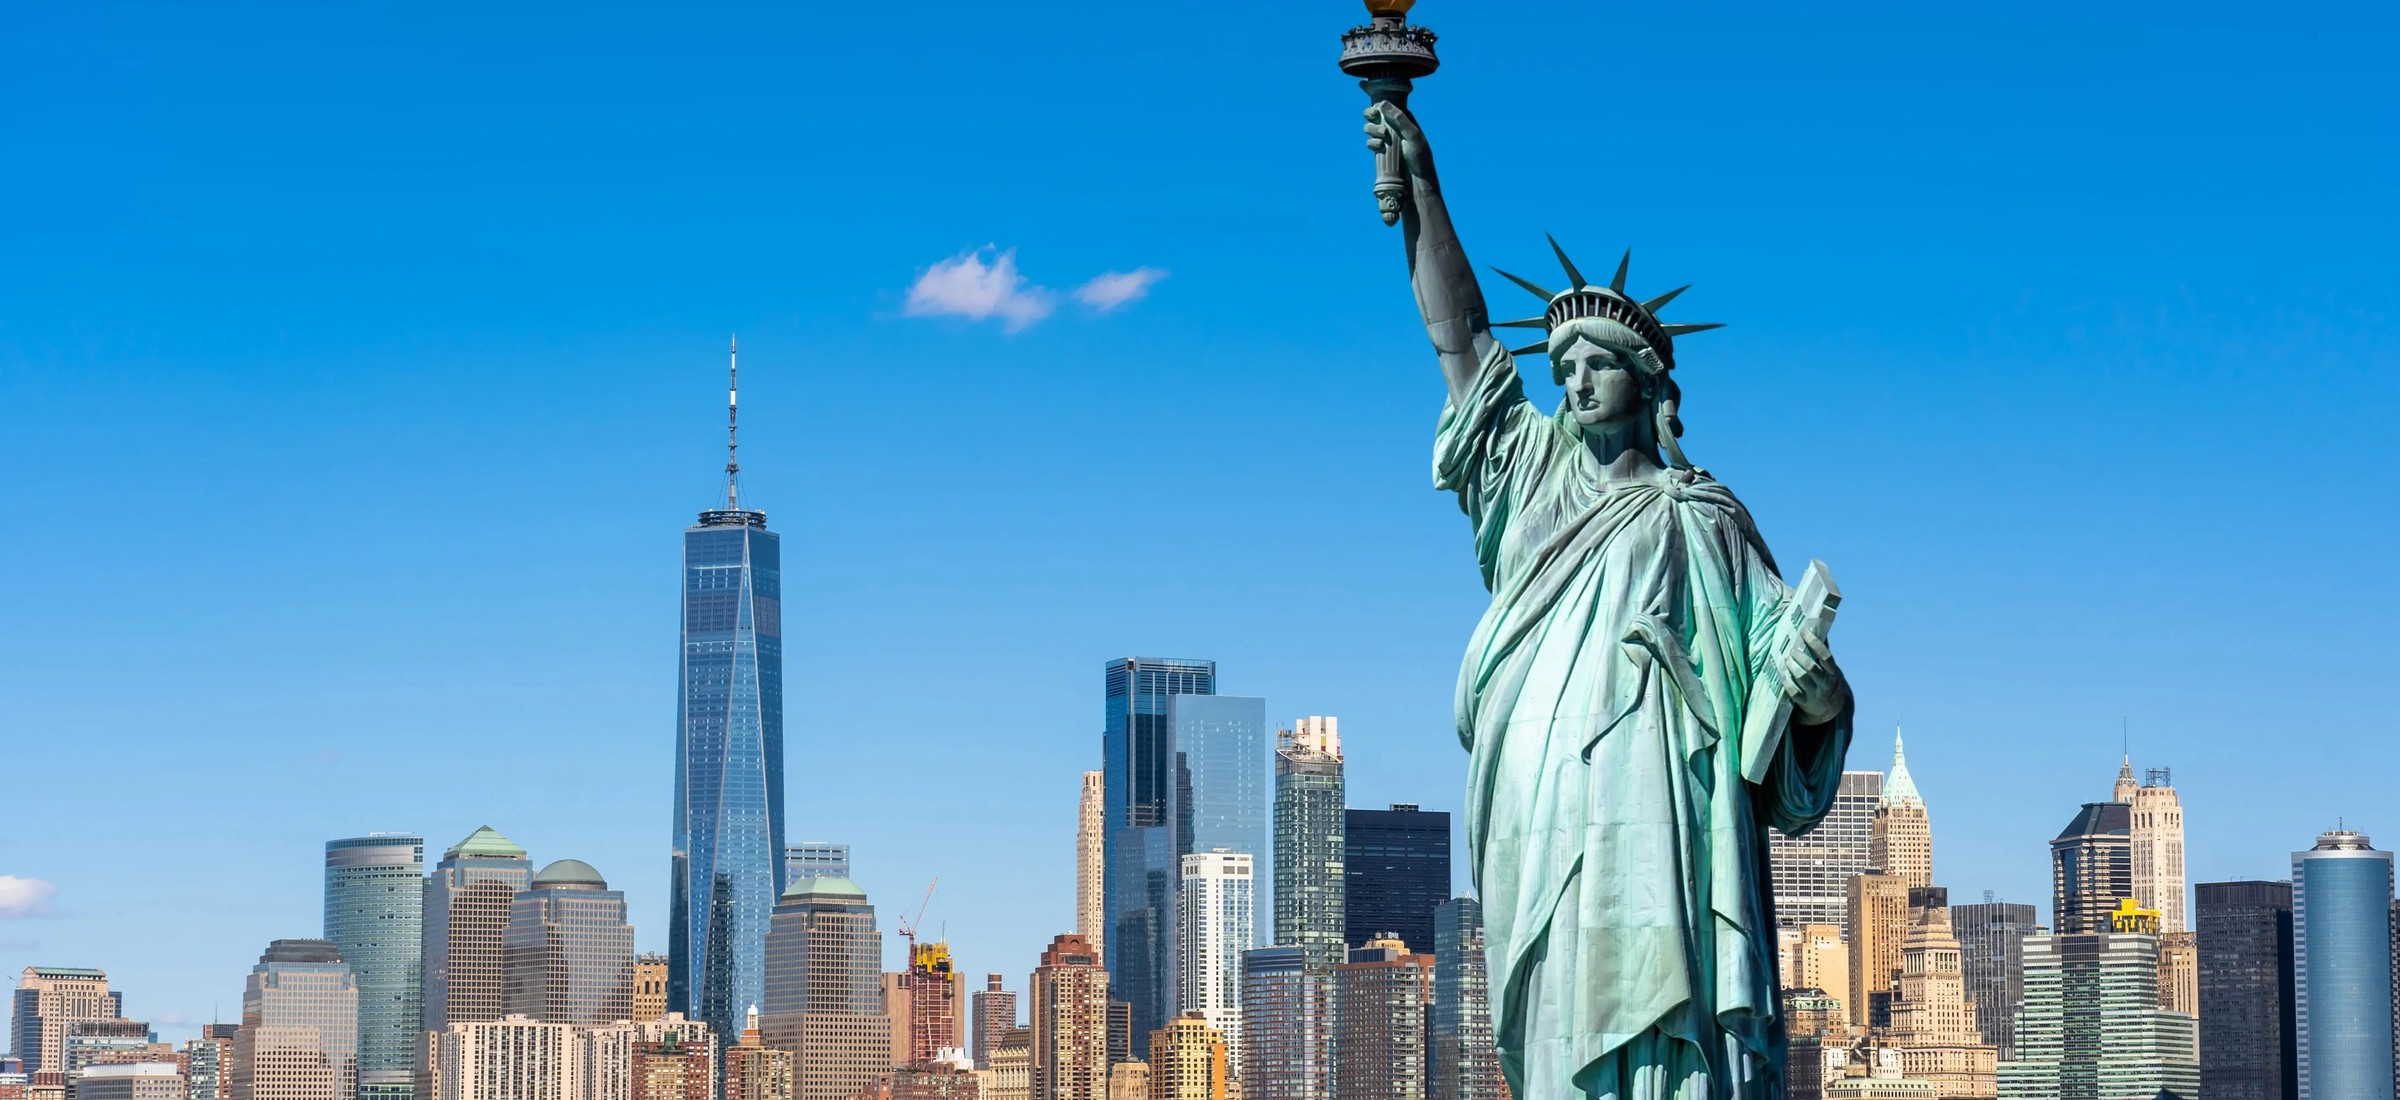
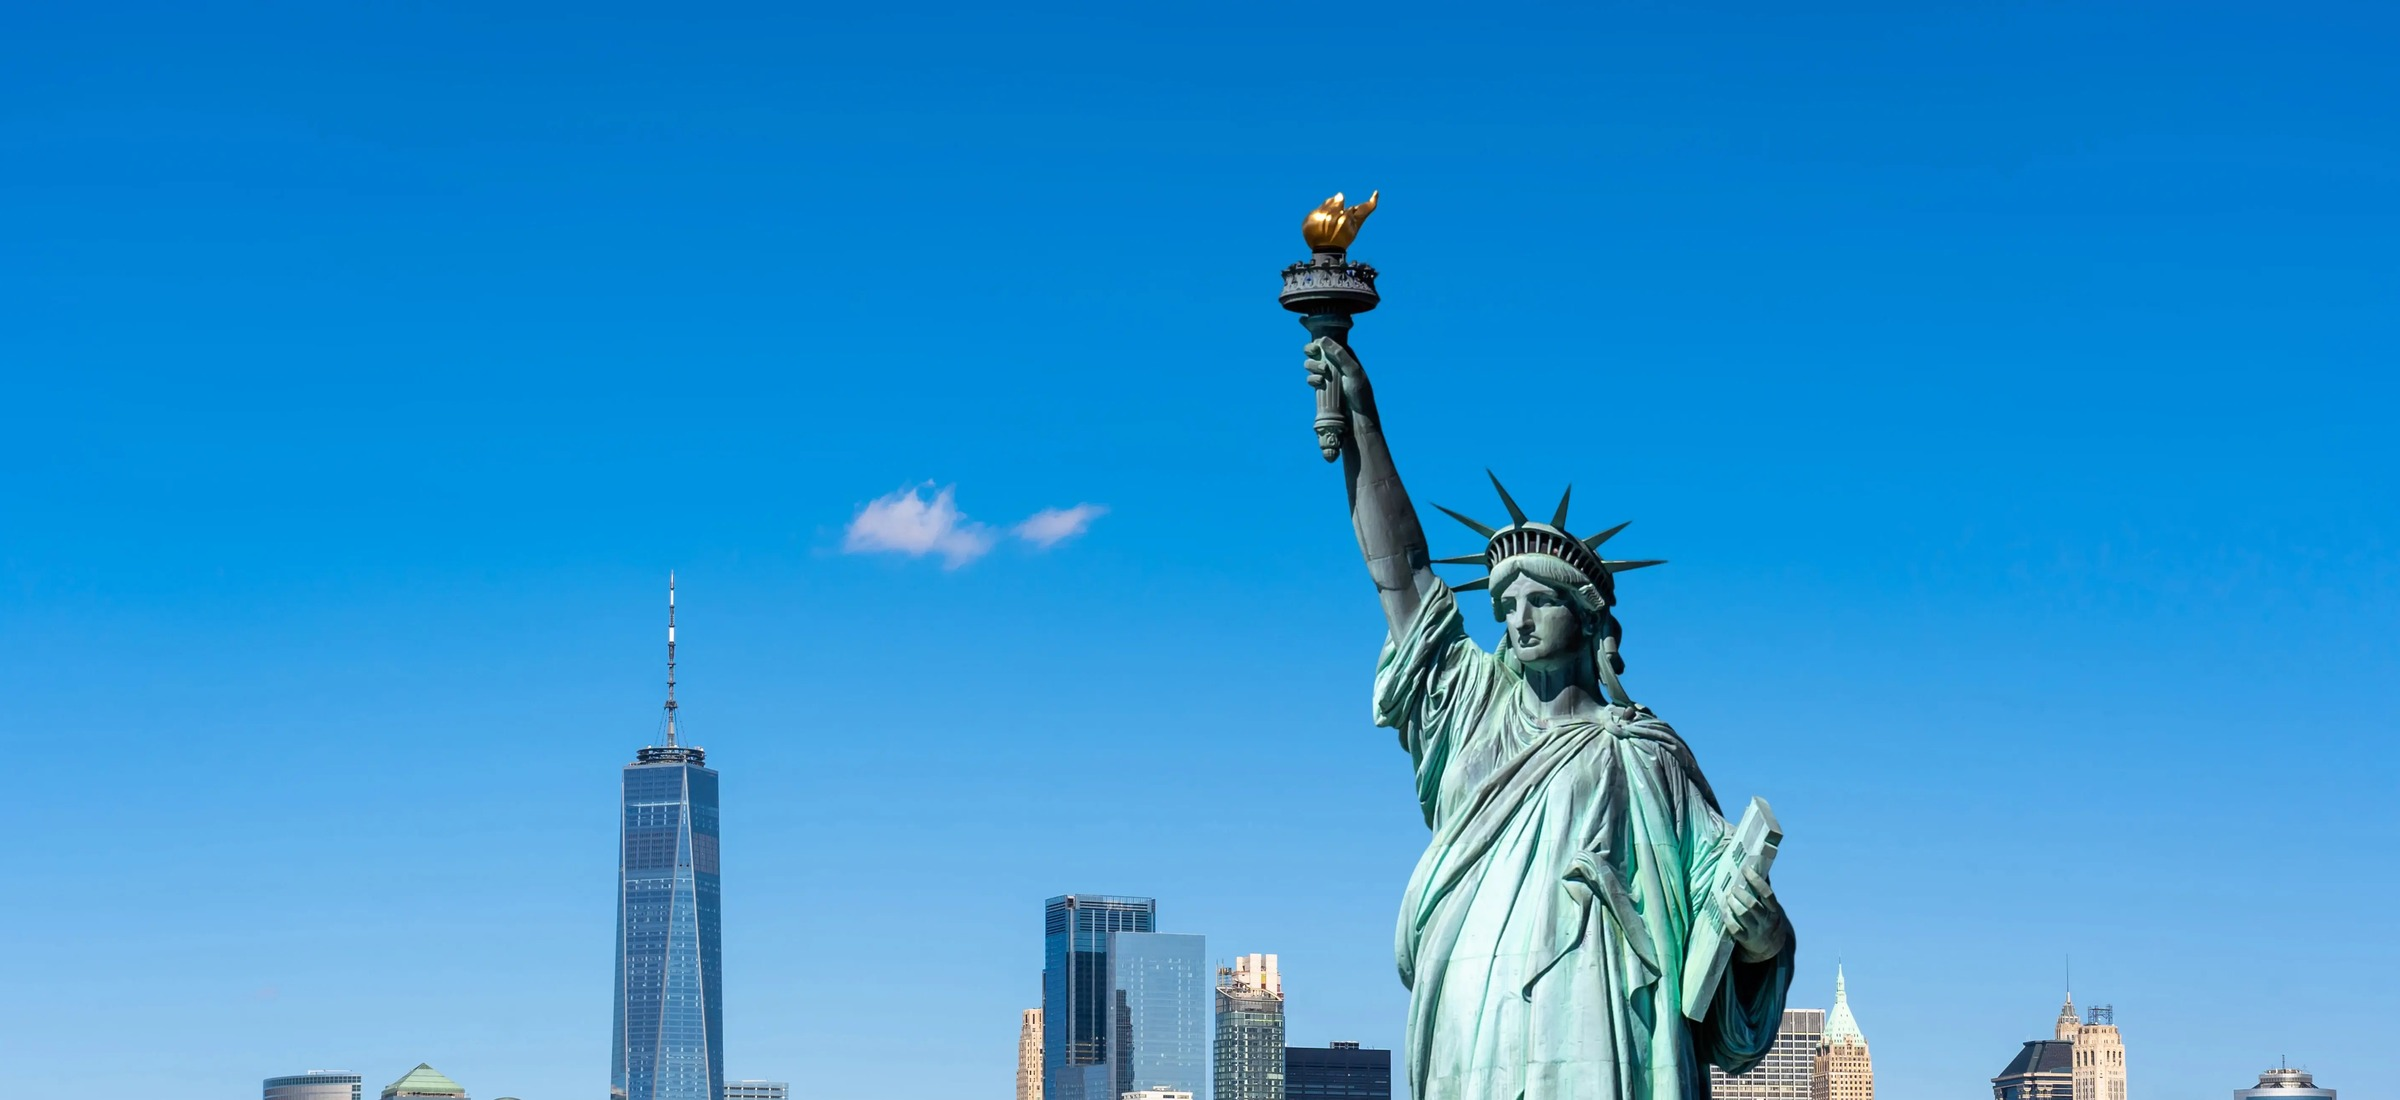
Pan NY Liberty hero so torch sits at top of cover crop
Rebake reframed Liberty stills with sky headroom and pin
background/object-position to left top on the NY state preview.

diff --git a/hubspot-state-city-preview/new-york.html b/hubspot-state-city-preview/new-york.html
@@ -234,7 +234,7 @@ _hsp.push(['addPrivacyConsentListener', function(consent){
   }
 </style>
   <meta name="generator" content="HubSpot">
-<!-- NY hero: keep Liberty clear of headline -->
+<!-- NY hero: Liberty left of headline + pan so torch tip stays in frame -->
 <style>
   .Hero-Section .Hero-Row {
     text-align: left !important;
@@ -250,6 +250,19 @@ _hsp.push(['addPrivacyConsentListener', function(consent){
   .Hero-Section .Hero-Inner {
     text-align: left;
   }
+  /* Pan down (anchor top): torch/sky enter top of cover crop — theme img uses height:100%/min-width without object-position */
+  .Hero-Section.fullwidth {
+    background-position: left top !important;
+    overflow: hidden;
+  }
+  .Hero-Section .heroSlide img {
+    width: 100% !important;
+    height: 100% !important;
+    max-width: none !important;
+    min-width: 0 !important;
+    object-fit: cover !important;
+    object-position: left top !important;
+  }
   @media (max-width: 767px) {
     .Hero-Section .Hero-Row {
       text-align: center !important;
@@ -258,6 +271,9 @@ _hsp.push(['addPrivacyConsentListener', function(consent){
       padding-right: 16px;
     }
     .Hero-Section .Hero-CTA { justify-content: center !important; }
+    .Hero-Section .heroSlide img {
+      object-position: center top !important;
+    }
   }
 </style>
 <!-- HUBSPOT STATE PAGE PREVIEW BANNER (mockup only — not published) -->
@@ -589,7 +605,7 @@ _hsp.push(['addPrivacyConsentListener', function(consent){
 <div class="row-fluid-wrapper row-depth-1 row-number-1 ">
 <div class="row-fluid ">
 <div class="span12 widget-span widget-type-custom_widget  dnd-module" style="" data-widget-type="custom_widget" data-x="0" data-w="12">
-<div id="hs_cos_wrapper_dnd-modulemodule_16276850048141112" class="hs_cos_wrapper hs_cos_wrapper_widget hs_cos_wrapper_type_module" style="" data-hs-cos-general-type="widget" data-hs-cos-type="module"><div class="Hero-Section fullwidth hideSlider overlay" style="background:url(../assets/img/locations/ny-hero-liberty-reframed-textsafe.jpg) no-repeat left center / cover;">
+<div id="hs_cos_wrapper_dnd-modulemodule_16276850048141112" class="hs_cos_wrapper hs_cos_wrapper_widget hs_cos_wrapper_type_module" style="" data-hs-cos-general-type="widget" data-hs-cos-type="module"><div class="Hero-Section fullwidth hideSlider overlay" style="background:url(../assets/img/locations/ny-hero-liberty-reframed-textsafe.jpg) no-repeat left top / cover;">
   <div class="heroSlider">
     
     <div class="heroSlide 1">
